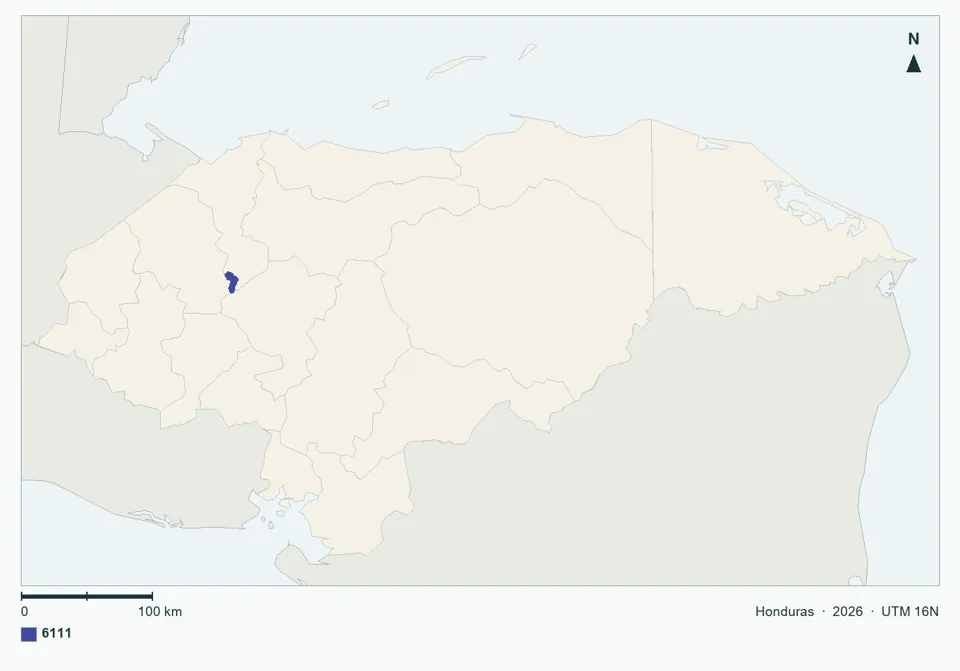
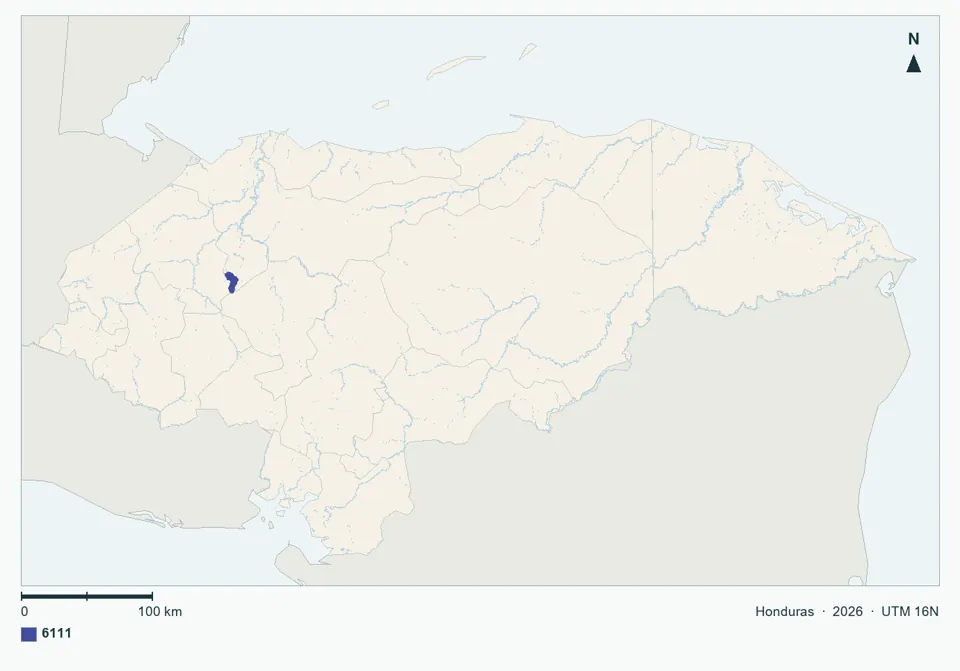
Mapas de ficha de lagos por densidad sobre la red fluvial
6111, 6112 y 6113 se dibujan con una intensidad según la fracción ocupada de cada bloque de 300 m y con los ríos en azul pálido de contexto, para que las lagunas pequeñas en fila no se lean como cursos de agua.

diff --git a/datos/07_mapas_fichas.py b/datos/07_mapas_fichas.py
@@ -29,6 +29,8 @@ CTX = Path(os.environ.get("CONTEXTO_MAPA", "D:/web_D_anctigravity/analisis_ecosi
 PNG = AQUI / "raster" / "mapas_fichas"
 WEBP = AQUI.parent / "public" / "data" / "fichas" / "mapas"
 ROTULO = "Honduras  ·  2026  ·  UTM 16N"
+LAGOS = (6111, 6112, 6113)  # se dibujan por densidad, sobre la red fluvial
+RIOS = (6061, 6062, 6063, 6064, 6065)
 
 style = {int(e.get("value")): e.attrib for e in ET.parse(GEO / "Mapa_Ecosistemas_R26_30m.qml").findall(".//paletteEntry")}
 with (GEO / "Superficies_R25_R26.csv").open(encoding="utf-8-sig", newline="") as f:
@@ -126,11 +128,22 @@ def render(k):
     v = np.floor((t - y0 + (pos // width + .5) * 300) / scale).astype(np.int32)
     presence = np.zeros((H, PW), np.uint8)
     np.maximum.at(presence, (v, u), counts)
-    presence = (presence > 0).astype(np.uint8) * 255
-    if int((presence > 0).sum()) < 110:
-        presence = np.asarray(Image.fromarray(presence).filter(ImageFilter.MaxFilter(3)))
     arr = np.array(panel)
-    arr[presence > 0] = ImageColor.getrgb(style[k]["color"])
+    if k in LAGOS:
+        # lagos: la red fluvial en azul pálido de contexto y cada bloque de 300 m con una intensidad según la fracción
+        # ocupada (100 celdas = bloque lleno), para que las lagunas pequeñas en fila no se lean como un río
+        rp, rc = (np.concatenate(x) for x in zip(*[hits[r] for r in RIOS if r in hits]))
+        ru = np.floor((x0 + (rp % width + .5) * 300 - l) / scale).astype(np.int32)
+        rv = np.floor((t - y0 + (rp // width + .5) * 300) / scale).astype(np.int32)
+        ok = (ru >= 0) & (ru < PW) & (rv >= 0) & (rv < H)
+        arr[rv[ok], ru[ok]] = ImageColor.getrgb("#b7d3e2")
+        a = np.clip(0.35 + 0.65 * presence / 50.0, 0, 1)[..., None] * (presence > 0)[..., None]
+        arr[:] = (arr * (1 - a) + np.array(ImageColor.getrgb(style[k]["color"])) * a).astype(np.uint8)
+    else:
+        presence = (presence > 0).astype(np.uint8) * 255
+        if int((presence > 0).sum()) < 110:
+            presence = np.asarray(Image.fromarray(presence).filter(ImageFilter.MaxFilter(3)))
+        arr[presence > 0] = ImageColor.getrgb(style[k]["color"])
     canvas.paste(Image.fromarray(arr), (M, 22))
     draw.rectangle((M, 22, M + PW, 22 + H), outline="#8fa8aa", width=1)
     draw.text((M + PW - 45, 42), "N", font=font(24, True), fill=INK)
@@ -153,6 +166,7 @@ def render(k):
 
 PNG.mkdir(parents=True, exist_ok=True)
 WEBP.mkdir(parents=True, exist_ok=True)
-for k in codes:
+import sys
+for k in [int(a) for a in sys.argv[1:]] or codes:
     render(k)
 print(f"{len(codes)} mapas de clase dibujados desde {TIF.name}")
